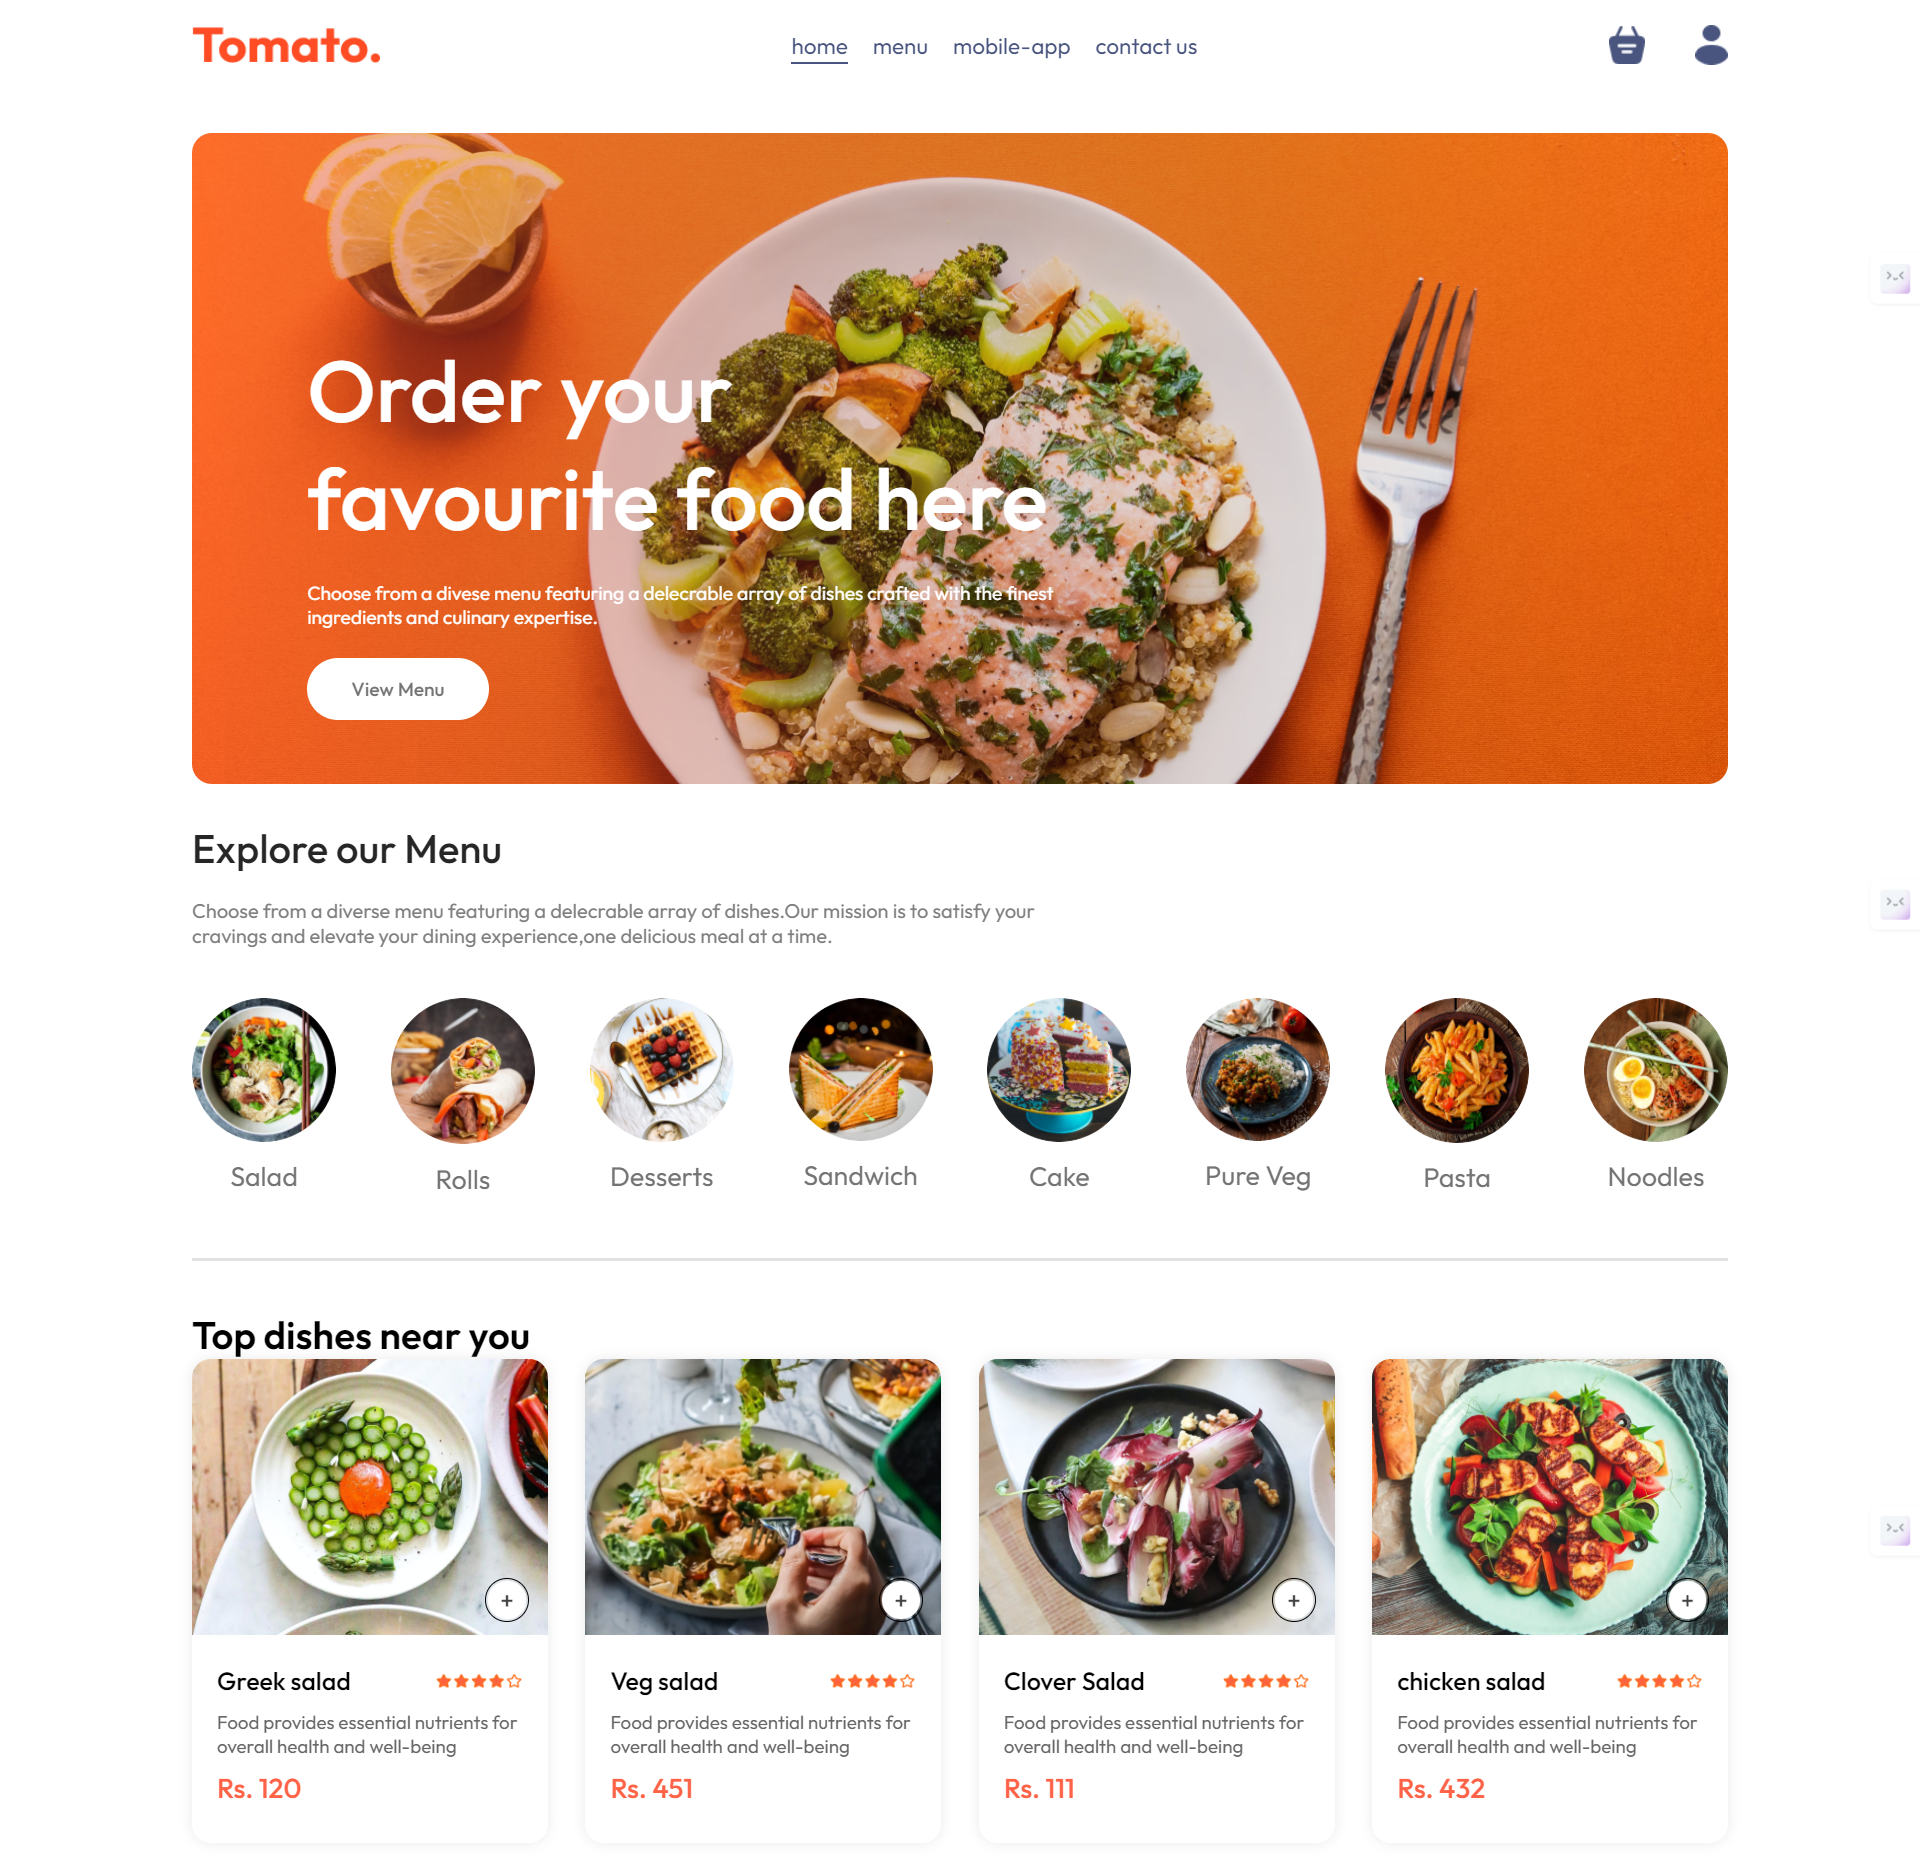
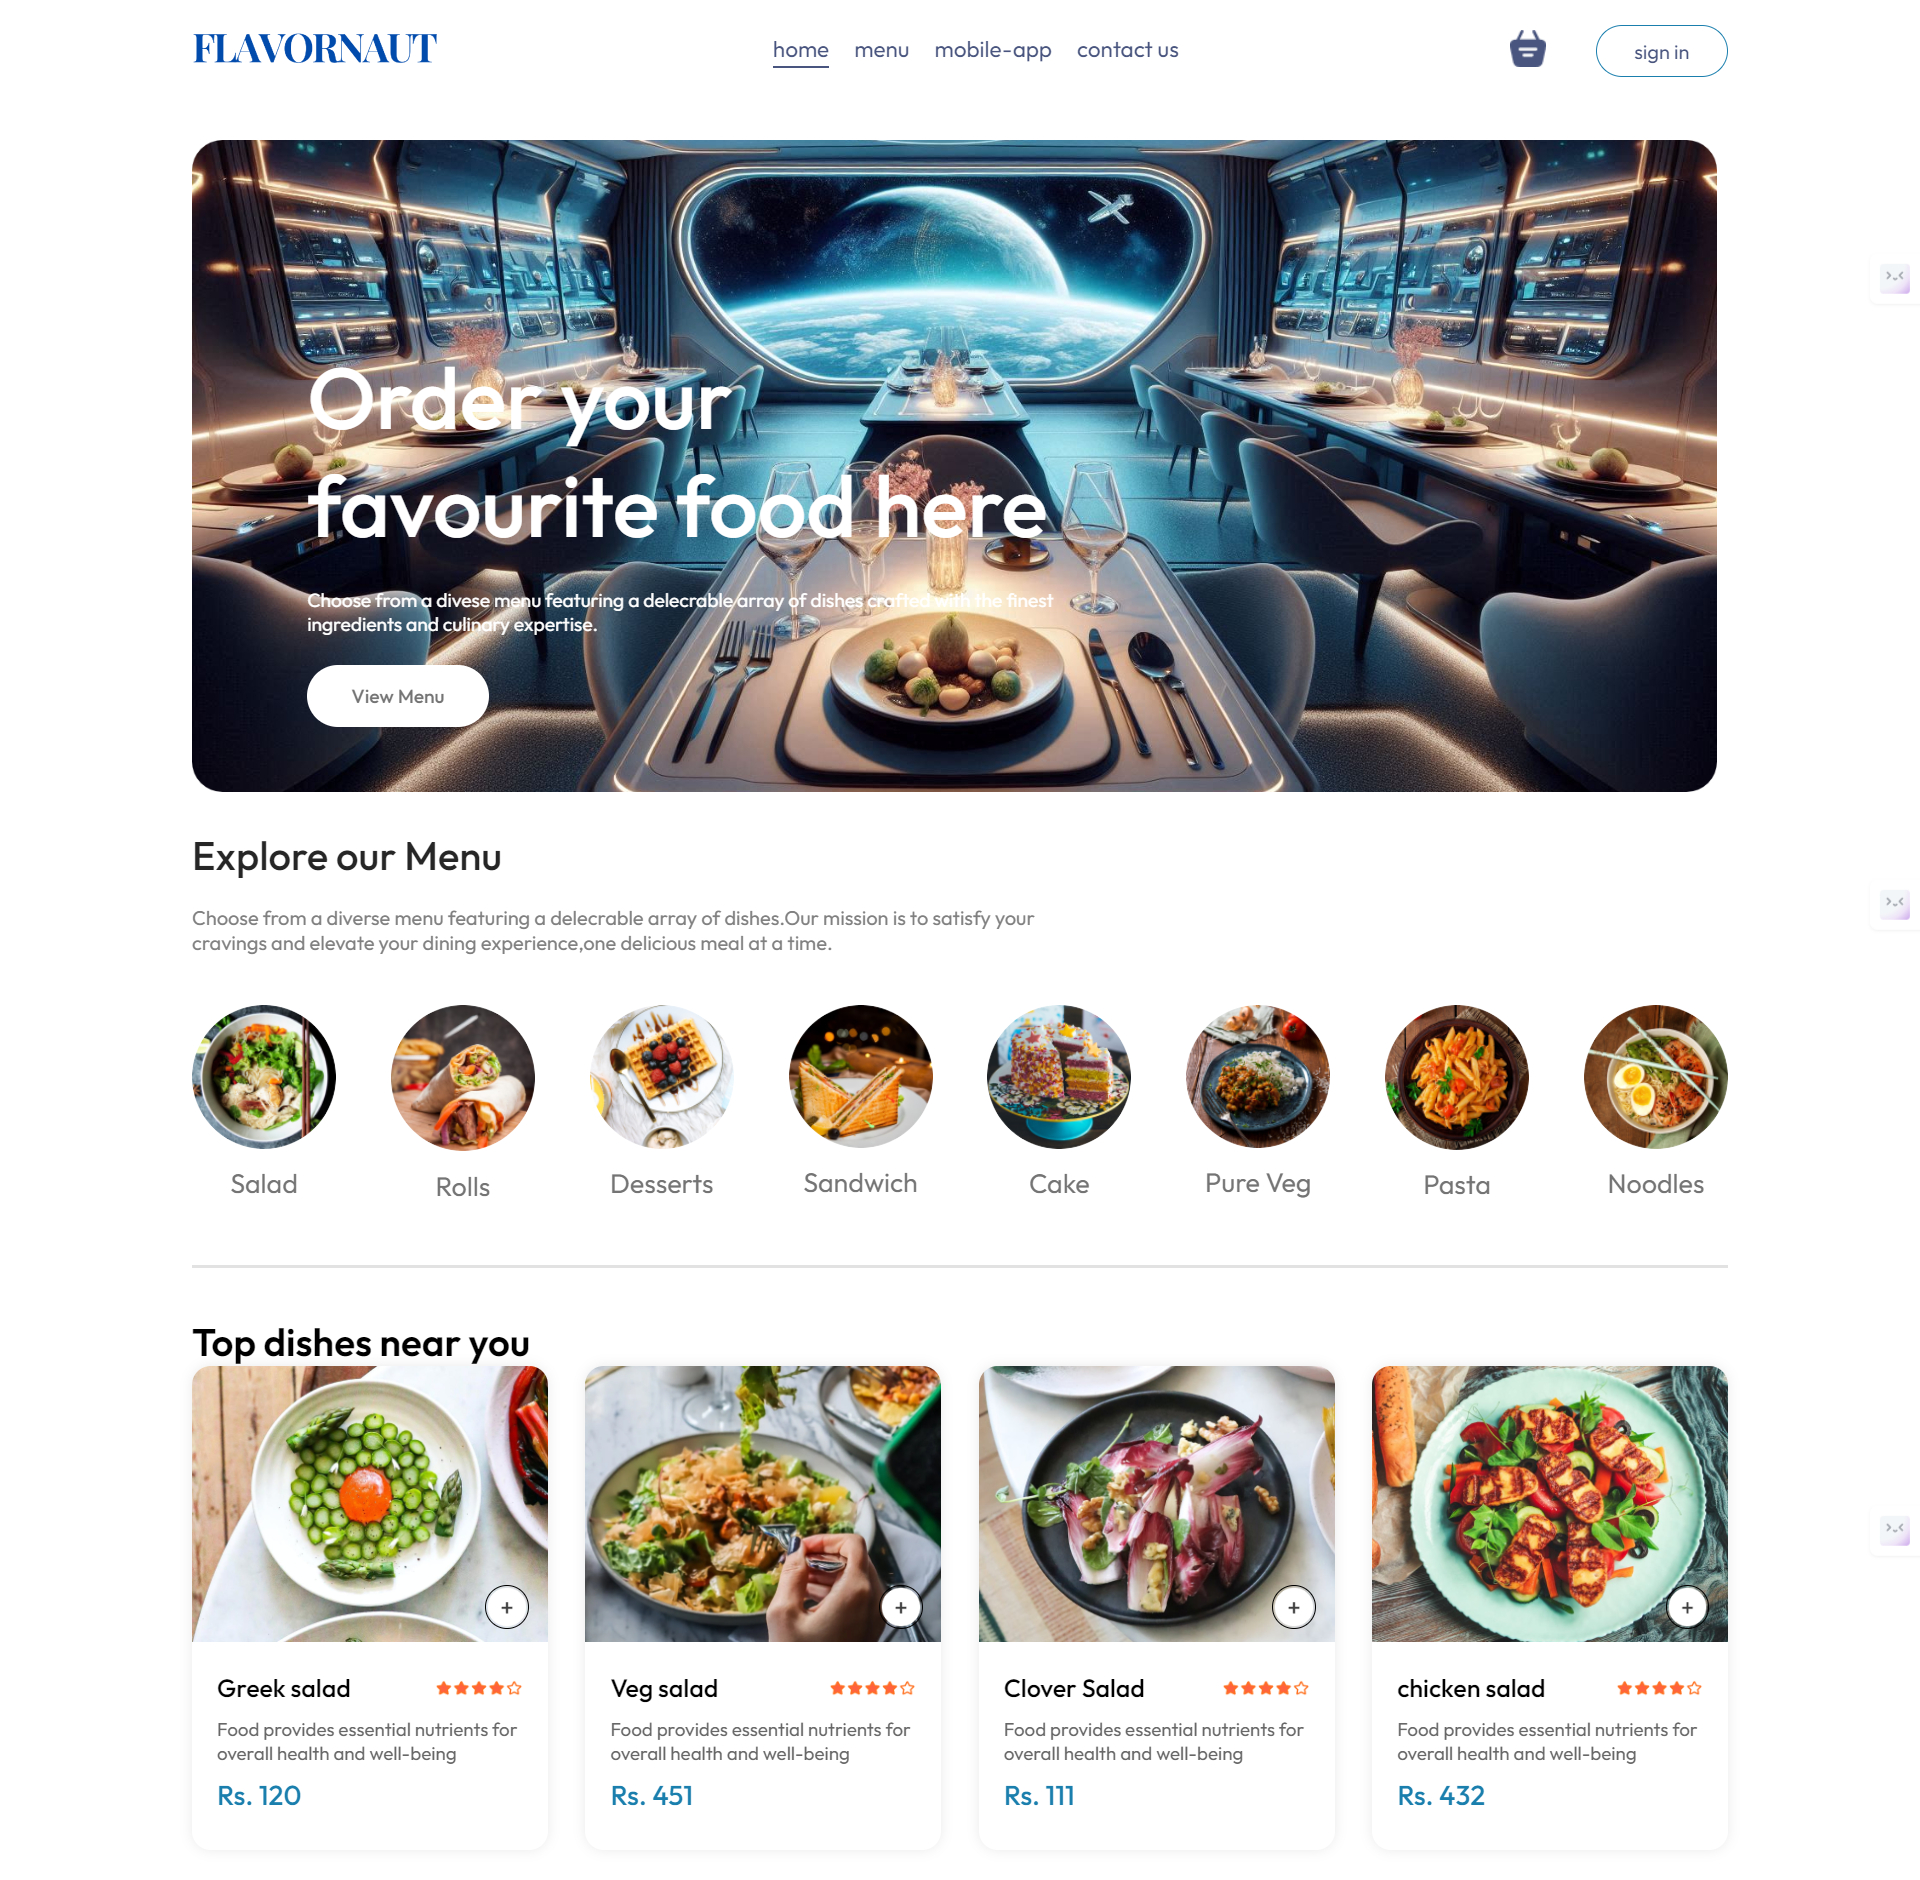
Flavornaut

diff --git a/src/components/Works/works.jsx b/src/components/Works/works.jsx
@@ -15,8 +15,8 @@ const Works = () => {
         <div className='card'>
           <img src={tomato} class="worksImg" alt="" />
           <div class="card__content">
-            <p class="card__title">tomato ecommerce</p>
-            <p class="card__description">Welcome to Tomato, the one-stop online marketplace bringing the freshest and finest assortment of culinary delights right to your doorstep. Our platform is a vibrant fusion of traditional flavors and modern convenience, crafted meticulously using the robust MERN stack to ensure a seamless and responsive experience for food aficionados.</p>
+            <p class="card__title">Flavornaut ecommerce</p>
+            <p class="card__description">Welcome to Flavornaut, the one-stop online marketplace bringing the freshest and finest assortment of culinary delights right to your doorstep. Our platform is a vibrant fusion of traditional flavors and modern convenience, crafted meticulously using the robust MERN stack to ensure a seamless and responsive experience for food aficionados.</p>
             <div class="buttons__container">
               <a href="https://food-ecommerce-pi.vercel.app/" target="_blank">
               <button class="acceptButton">Live Demo</button></a>
